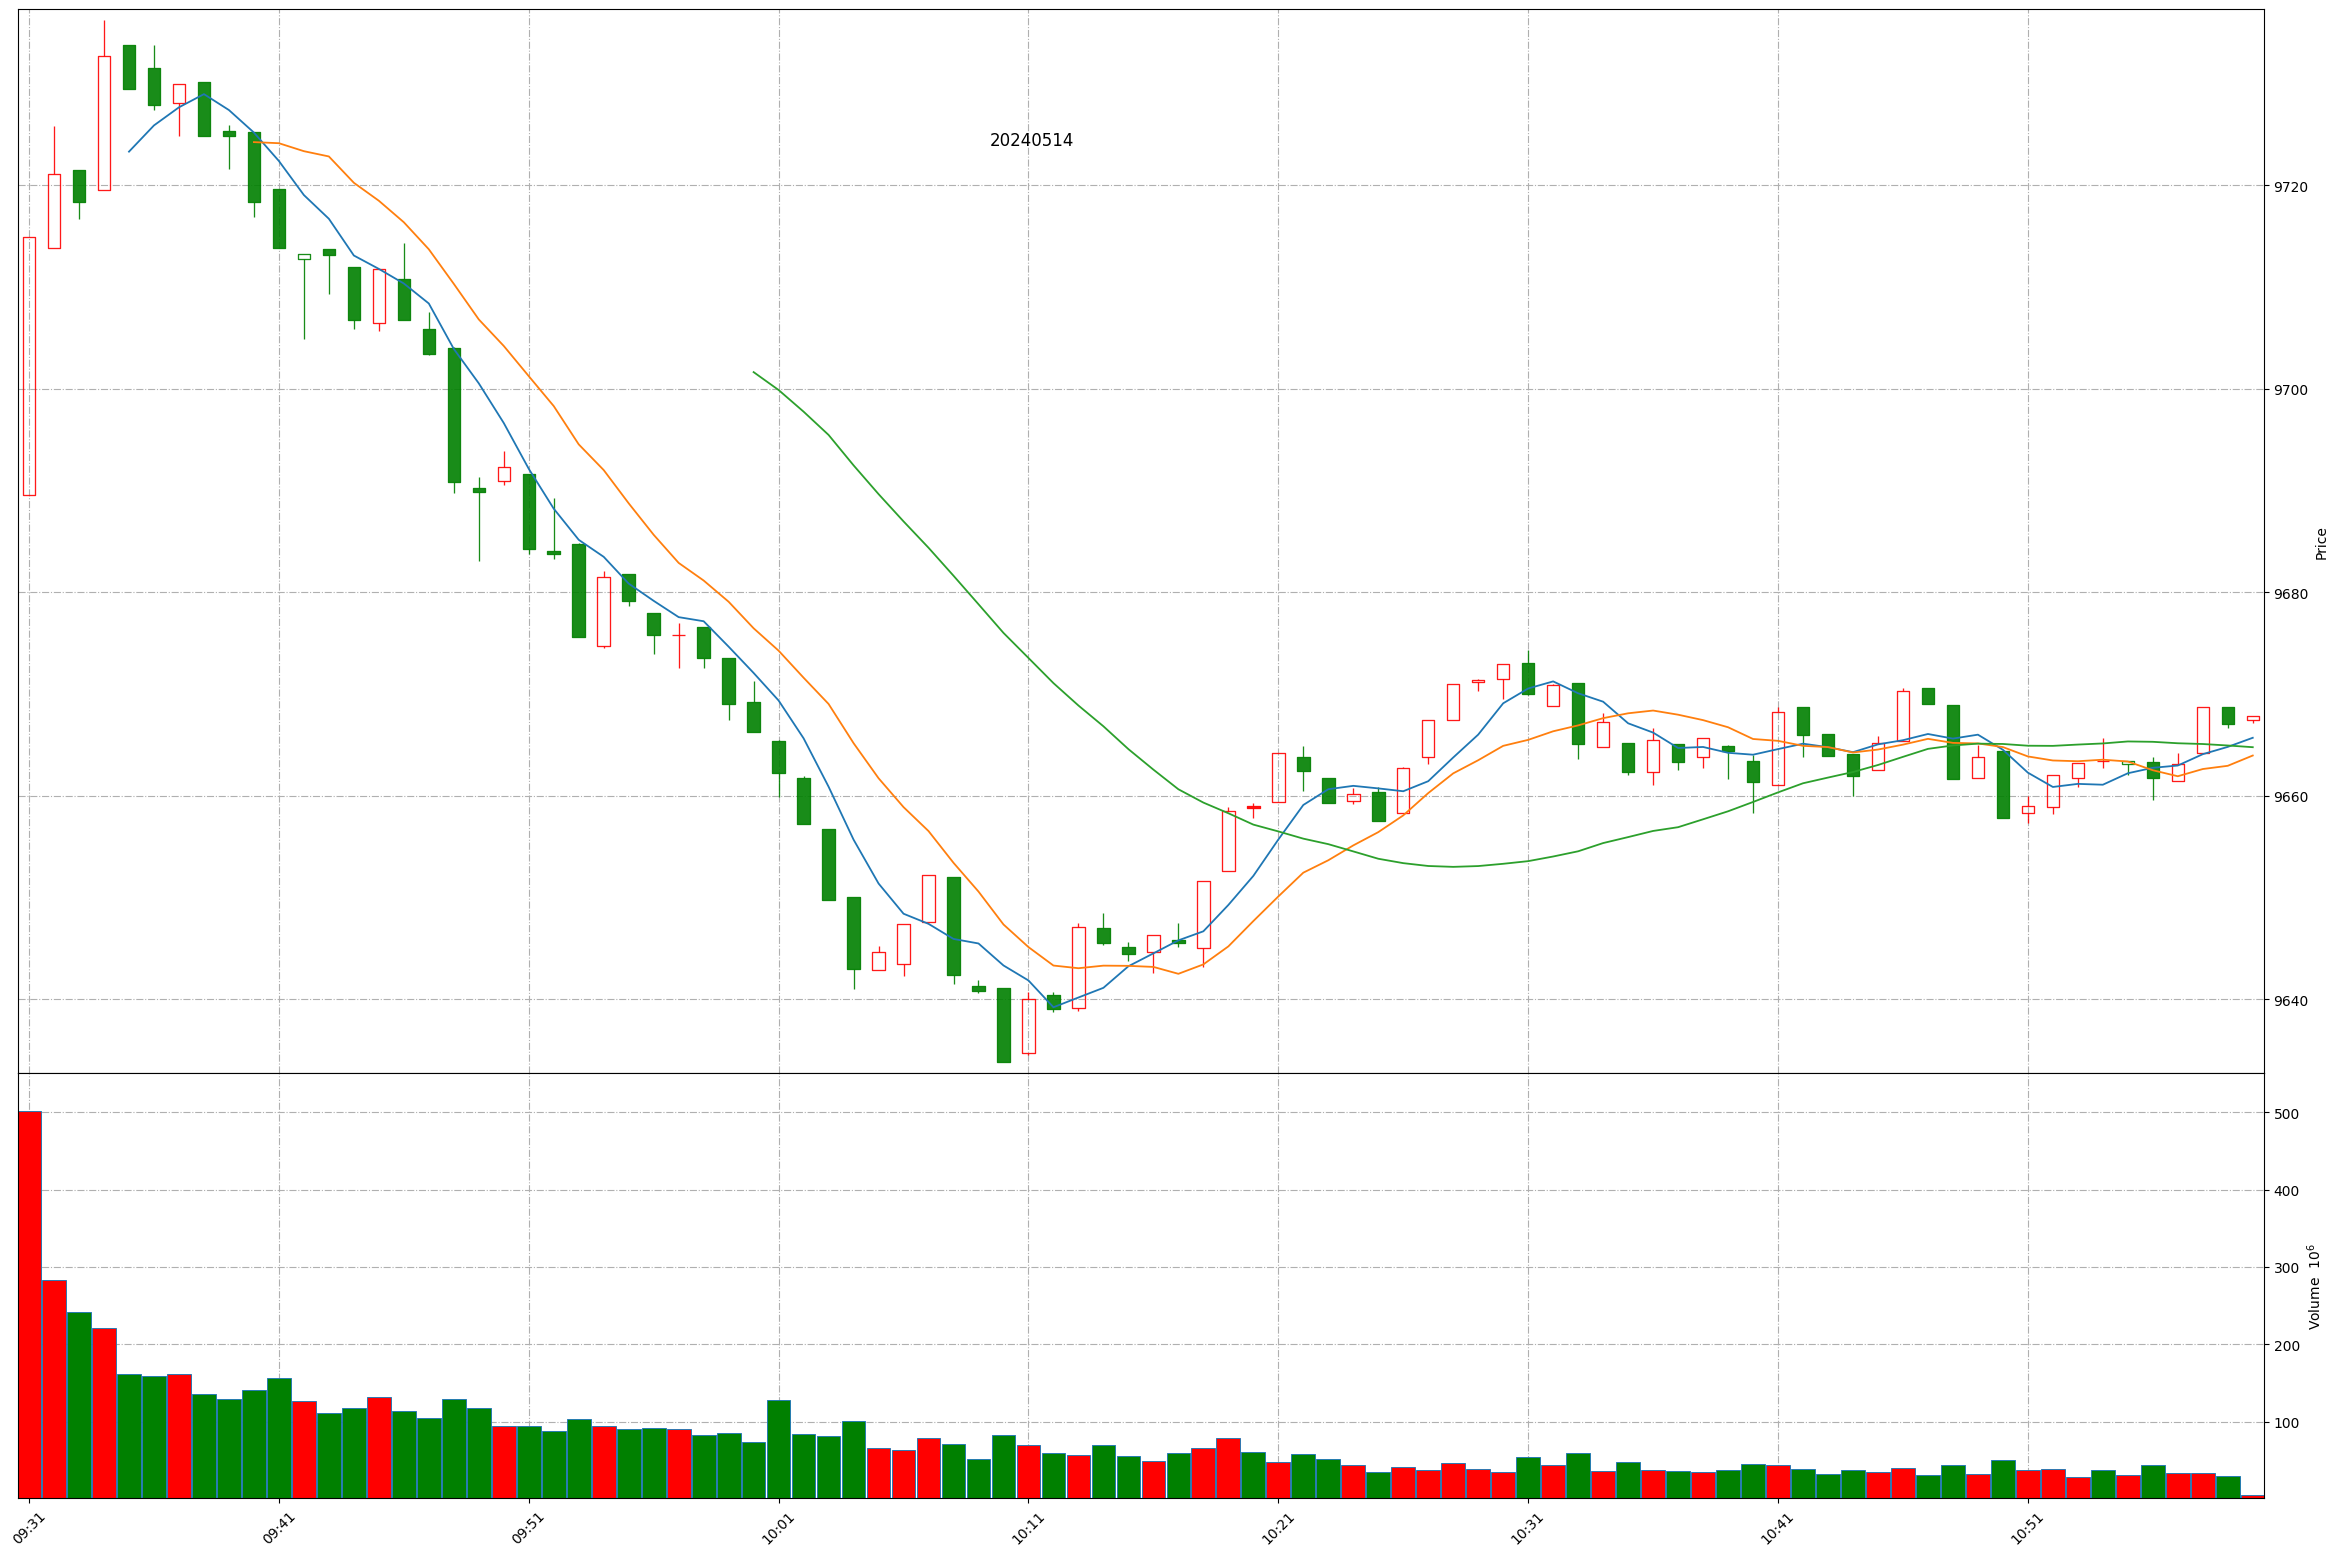
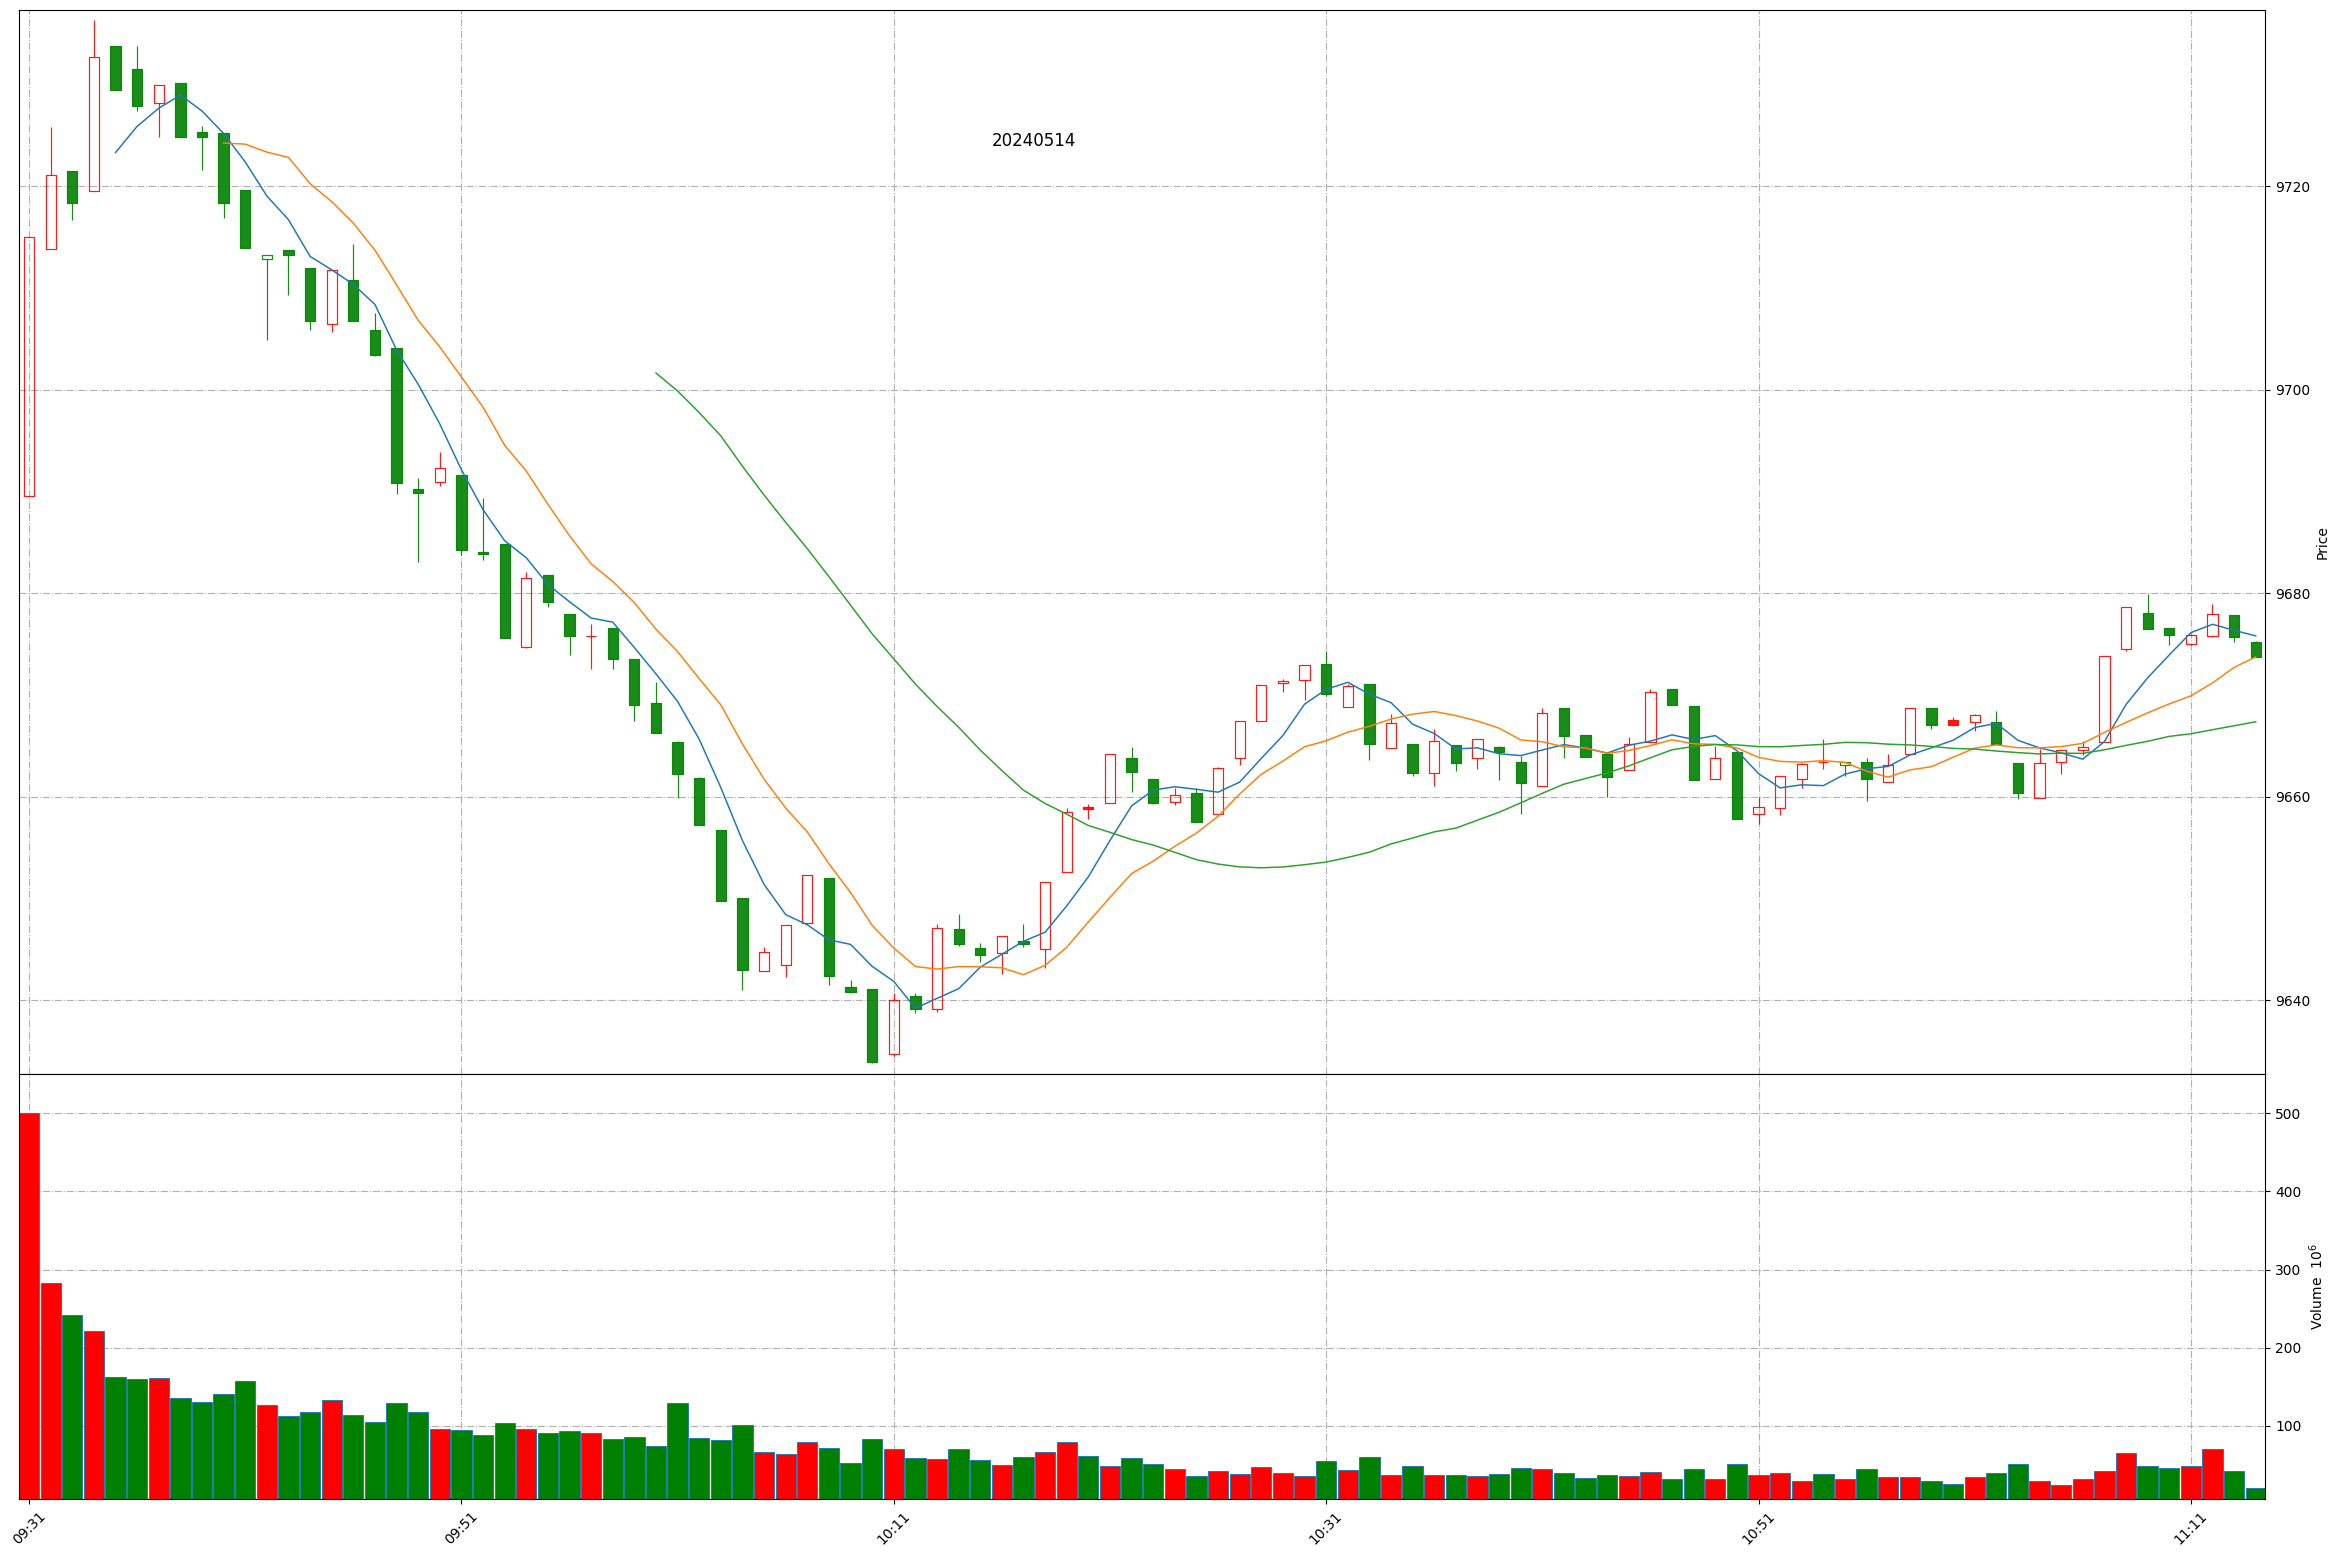
Github action update at 2024-05-14 11:13:51.

Changed region(s): [[0.0, 0.0, 0.9679, 0.6787], [0.0, 0.8021, 0.9679, 0.9871], [0.9679, 0.8021, 0.9991, 0.8638]]

diff --git a/README.md b/README.md
@@ -1,11 +1,11 @@
 
 # Daily-A-share-market-quotes 每日 A 股指数（5min 更新）- 20240514
 
-### 上证指数 20240514 10:59
+### 上证指数 20240514 11:13
 ![](./fig/2024/5/20240514-sh000001.png)
 
-### 深证成指 20240514 10:59
+### 深证成指 20240514 11:13
 ![](./fig/2024/5/20240514-sz399001.png)
 
-### 北证50 20240514 10:59
+### 北证50 20240514 11:13
 ![](./fig/2024/5/20240514-bj899050.png)
